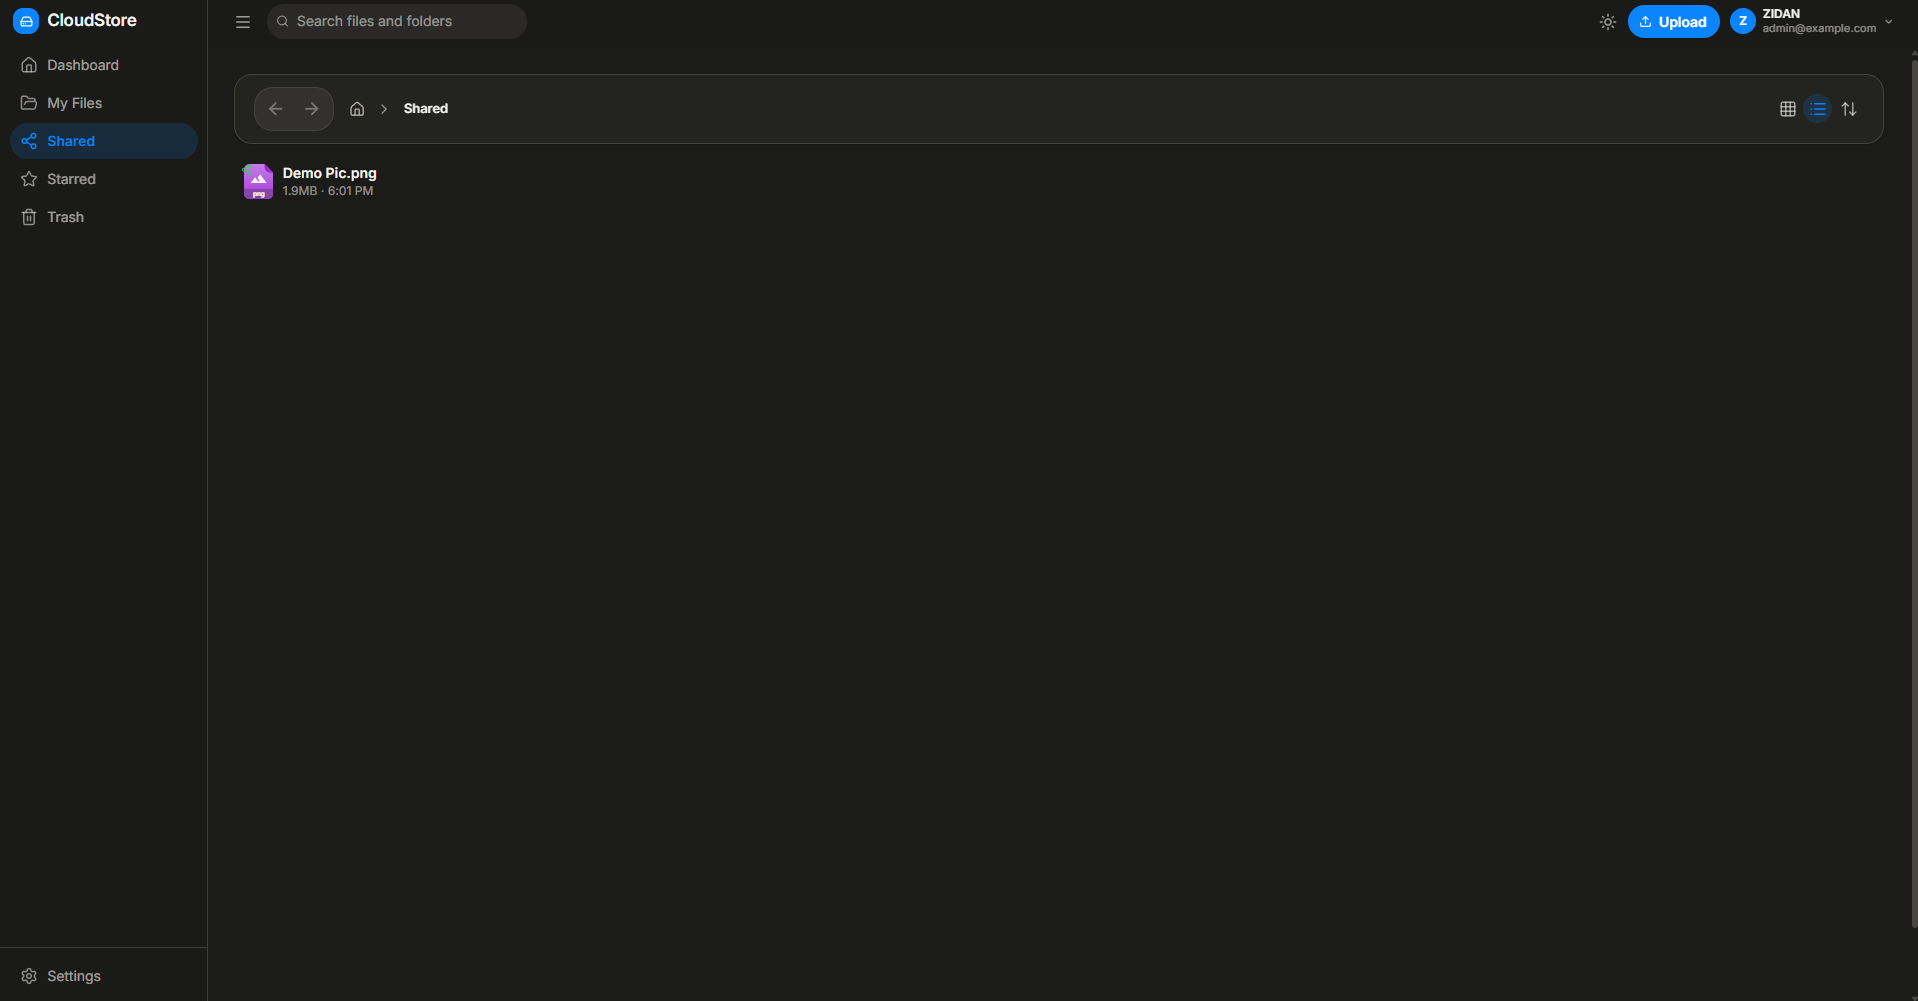
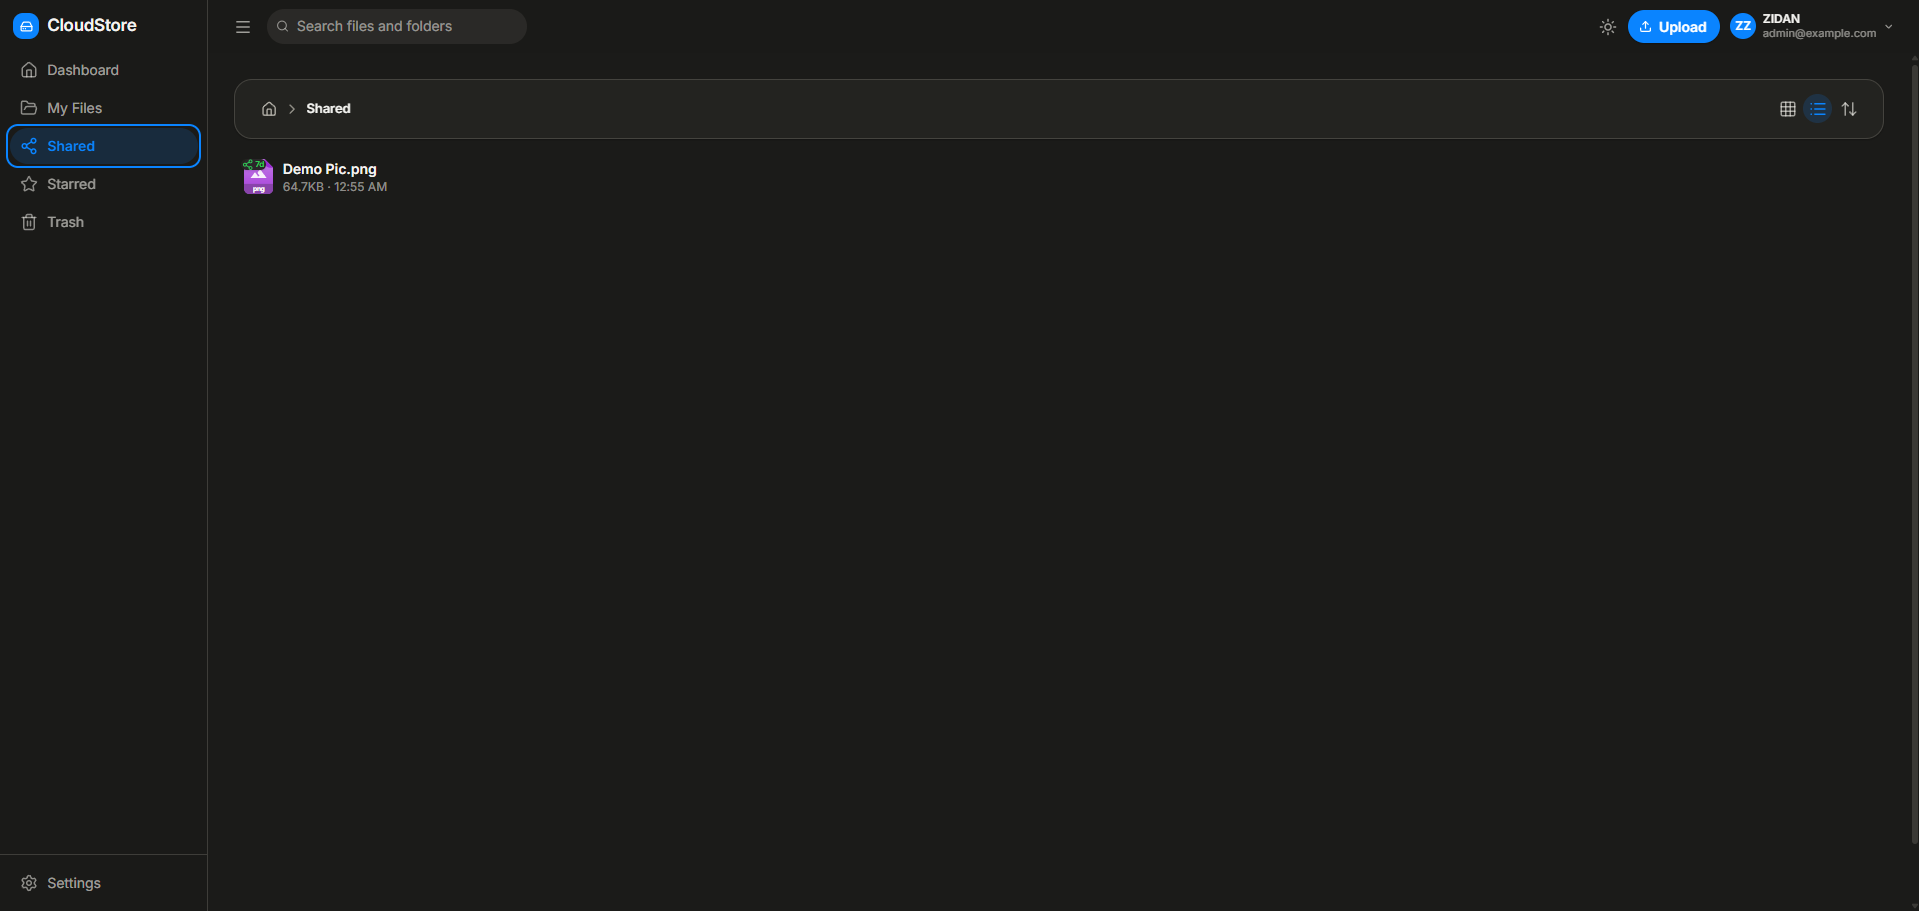
Document share timestamps and expiry countdown

diff --git a/content/docs/api/files.md b/content/docs/api/files.md
@@ -60,13 +60,18 @@ An array of file and folder objects.
     "mimeType": "application/pdf",
     "parentId": "folder_456",
     "starred": false,
+    "shared": true,
     "modified": "2024-01-01T00:00:00Z",
-    "accessedAt": "2024-01-02T09:15:00Z"
+    "accessedAt": "2024-01-02T09:15:00Z",
+    "sharedAt": "2024-01-03T10:30:00Z",
+    "expiresAt": "2024-01-10T10:30:00Z"
   }
 ]
 ```
 
 **`accessedAt`:** When the item was last read. Listing a folder updates that folder's own `accessedAt`, not the entries returned. The value is approximate — it is written at most once per hour per item and may lag by the cache TTL of this response. See [File System](/docs/concepts/file-system#last-access-time).
+
+**Share fields:** `sharedAt` is when the item joined a share. `expiresAt` is when access ends, or `null` for a link with no expiration. Both are `null` when `shared` is false. For an item that belongs to more than one share, `expiresAt` is `null` if any link has no expiration; otherwise it is the latest expiration.
 
 ## File Statistics
 
@@ -115,8 +120,11 @@ An array of file and folder objects matching the search query.
     "mimeType": "application/pdf",
     "parentId": "folder_456",
     "starred": false,
+    "shared": true,
     "modified": "2024-01-01T00:00:00Z",
-    "accessedAt": "2024-01-02T09:15:00Z"
+    "accessedAt": "2024-01-02T09:15:00Z",
+    "sharedAt": "2024-01-03T10:30:00Z",
+    "expiresAt": "2024-01-10T10:30:00Z"
   }
 ]
 ```
@@ -564,7 +572,7 @@ List files and folders shared by the current user. Includes share link expiry in
 
 **Response:**
 
-An array of shared file and folder objects. Each object includes `expiresAt` from the associated share link (`null` if the link has no expiration).
+An array of shared file and folder objects. Each object includes `sharedAt` and `expiresAt`. `expiresAt` is `null` if the link has no expiration.
 
 ```json
 [
@@ -578,6 +586,7 @@ An array of shared file and folder objects. Each object includes `expiresAt` fro
     "shared": true,
     "modified": "2024-01-01T00:00:00Z",
     "accessedAt": "2024-01-02T09:15:00Z",
+    "sharedAt": "2024-01-03T10:30:00Z",
     "expiresAt": "2024-01-08T00:00:00Z"
   }
 ]
@@ -769,6 +778,9 @@ Get basic metadata for a single file or folder.
   "size": 1024,
   "modified": "2024-01-01T00:00:00Z",
   "accessedAt": "2024-01-02T09:15:00Z",
+  "shared": true,
+  "sharedAt": "2024-01-03T10:30:00Z",
+  "expiresAt": "2024-01-10T10:30:00Z",
   "parentId": "folder_456"
 }
 ```
@@ -795,6 +807,8 @@ Get basic metadata for a single file or folder.
 - `size` and `folderInfo.totalSize` are in bytes.
 - For folders, `size` may be `null`; use `folderInfo.totalSize` for the recursive size.
 - `accessedAt` is the last read time. Calling this endpoint does not update it.
+- `sharedAt` is when the item joined a share.
+- `expiresAt` is the effective share expiration, or `null` when the item is unshared or at least one associated link has no expiration.
 
 **Errors:**
 

diff --git a/content/docs/reference/database-schema.md b/content/docs/reference/database-schema.md
@@ -59,7 +59,8 @@ Files and folders.
 | `parent_id`       | TEXT        | FK → files.id (null for root)                         |
 | `path`            | TEXT        | S3 object key. Null for folders                       |
 | `starred`         | BOOLEAN     | Default false                                         |
-| `shared`          | BOOLEAN     | Default false; true while an active share link exists |
+| `shared`          | BOOLEAN     | Default false; true while the item belongs to a share |
+| `shared_at`       | TIMESTAMPTZ | When the item joined a share; null when not shared    |
 | `deleted_at`      | TIMESTAMPTZ | Soft delete timestamp                                 |
 | `modified`        | TIMESTAMPTZ | Last modification time, not null, default now()       |
 | `created_at`      | TIMESTAMPTZ | Row creation time, not null, default now()            |
@@ -71,7 +72,7 @@ Files and folders.
 
 Name search is backed by trigram GIN indexes from `pg_trgm` (`name`, `lower(name)`) and a `text_pattern_ops` btree on `lower(name)` for prefix matching — not a PostgreSQL full-text index.
 
-**The three timestamps:** `modified` is the file's own timestamp — uploads and copies preserve the client's original mtime, so it can be years old on a row written seconds ago. `created_at` is when the row was written and is what orphan detection uses to tell an in-flight write from an orphan. `accessed_at` is when the item was last read. Renames and moves change neither `path` nor `created_at`, and they do not count as reads, so `accessed_at` is left alone as well. Reading an item never changes `modified`.
+**File timestamps:** `modified` is the file's own timestamp — uploads and copies preserve the client's original mtime, so it can be years old on a row written seconds ago. `created_at` is when the row was written and is what orphan detection uses to tell an in-flight write from an orphan. `accessed_at` is when the item was last read. `shared_at` is set when an item joins a share and cleared when it is unshared. Re-sharing an active item does not change it. Renames and moves change neither `path` nor `created_at`, and they do not count as reads, so `accessed_at` is left alone as well. Reading an item never changes `modified`.
 
 **`accessed_at` precision:** The value is written at most once per hour per item, so it can lag a read by up to that long. This follows NTFS, which guarantees its last-access time only to within an hour, and Linux's `relatime`. Writes are buffered in memory and flushed in batches, so a read never waits on the update. See [File System](/docs/concepts/file-system#last-access-time).
 

diff --git a/content/docs/concepts/sharing-model.md b/content/docs/concepts/sharing-model.md
@@ -99,9 +99,13 @@ A background job removes expired share links from the database. It runs once at 
 ### Viewing Shares
 
 - Go to the **Shared** section in the file manager
-- Active links show the green share icon
+- Active links show the green share icon with a compact countdown in days, hours, or minutes
+- Links with no expiration show `∞` beside the share icon
 - Expired links show a red clock icon and "Link expired" label
+- **Get Info** shows when the item was shared, the remaining duration, and the exact expiration time
 - Copy share links from the share modal
+
+The shared time is set when an item joins a share. Re-sharing an active item keeps that time. Unsharing clears it, and sharing the item again starts a new time. Descendants of a shared folder and items added to it later receive their own shared time.
 
 ### Revoking Shares
 

diff --git a/content/docs/reference/glossary.md b/content/docs/reference/glossary.md
@@ -81,6 +81,10 @@ An optional separate domain you can point at `/s/*` routes, so share links don't
 
 A public URL (e.g. `https://example.com/s/abc123`) that lets anyone with the link view or download a file or folder, without a TMA Cloud account.
 
+### Shared at (`shared_at`)
+
+When a file or folder most recently joined a share. It is shown under **Shared** in Get Info. Re-sharing an active item keeps the value; unsharing clears it. Items inside a shared folder receive their own value when they join that share.
+
 ### Signup control
 
 The admin toggle that decides whether new accounts can be created. See [Signup Control](/docs/guides/admin/signup-control).

diff --git a/content/docs/guides/user/share-files.md b/content/docs/guides/user/share-files.md
@@ -54,8 +54,11 @@ Re-sharing an already-shared file lets you change the expiry.
 ### Viewing Shares
 
 - Go to **"Shared"** section
-- Active links show the green share icon
+- Active links show the green share icon with the remaining time: days, hours, or minutes
+- Links with no expiration show `∞` beside the share icon
 - Expired links show a red clock icon and "Link expired" label
+
+Open **Get Info** on a shared file or folder to see when it was shared, how much time remains, and the exact expiration time. A link with no expiration shows **Never expires**.
 
 ### Copying Links
 

diff --git a/content/docs/concepts/file-system.md b/content/docs/concepts/file-system.md
@@ -24,6 +24,7 @@ File system architecture and organization in TMA Cloud.
 - **Path:** The storage key, not a user-visible path
 - **User ID:** The account the item belongs to
 - **Last Access Time:** When the item was last read (`accessed_at`), shown in the UI as "Last opened"
+- **Shared At:** When the item most recently became shared (`shared_at`); null while the item is not shared
 
 ## File Operations
 
